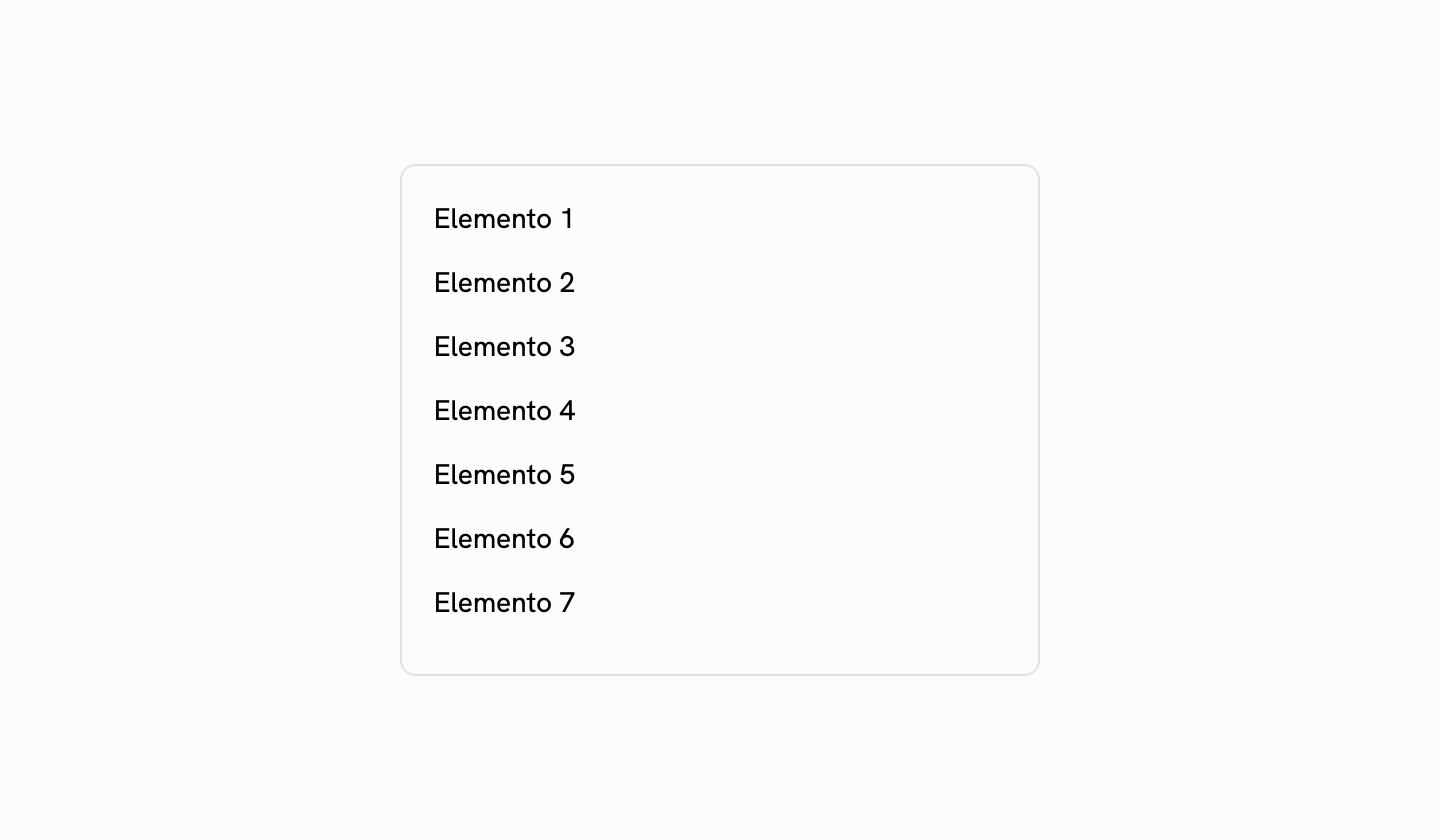
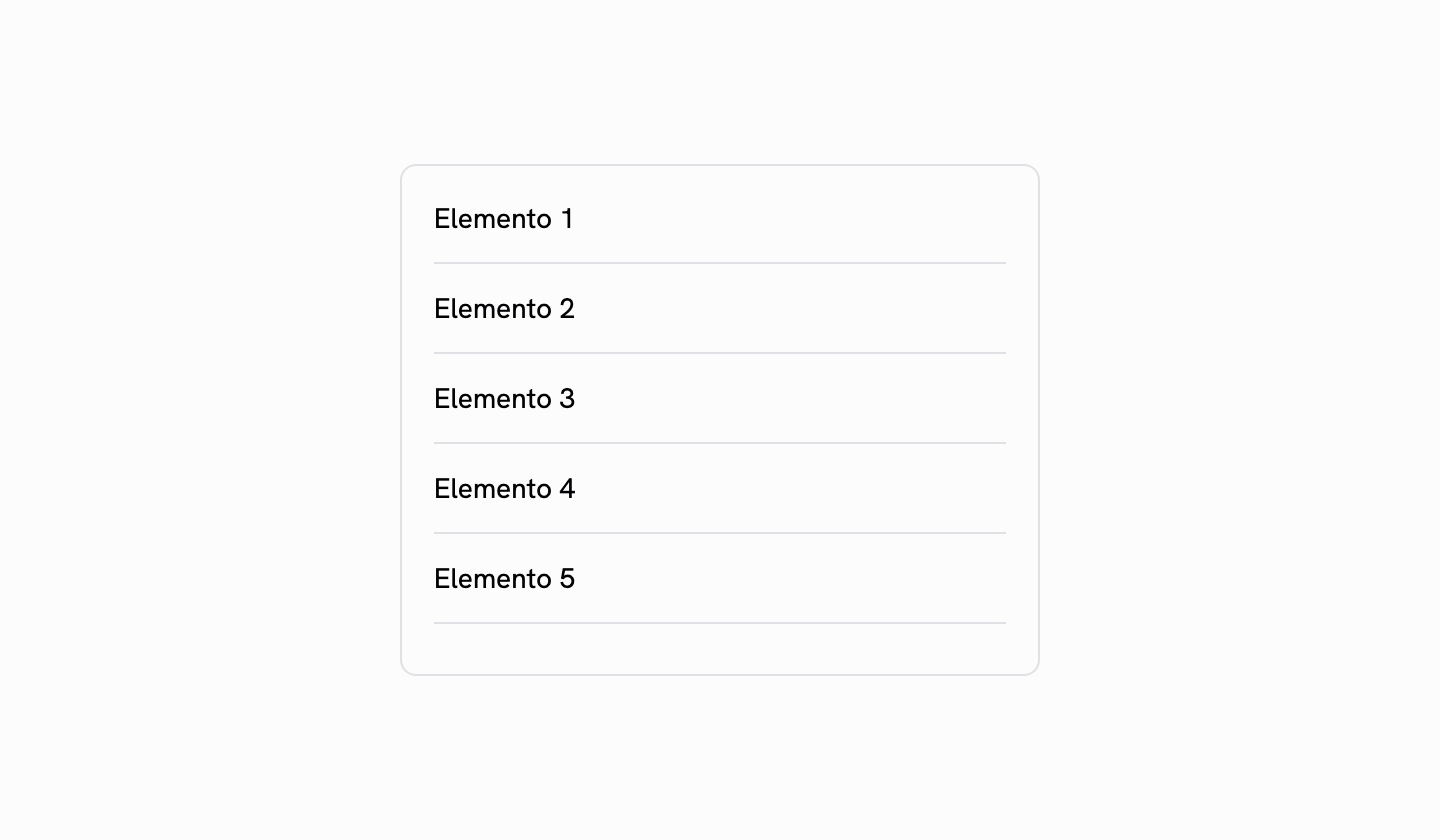
fix(registry): separator, scroll-area y field — data-[orientation=…]: en vez de data-horizontal:/data-vertical:
Base UI emite data-orientation, no data-horizontal/data-vertical, y el CSS
no define esas variantes: las clases no pintaban nada. Mismo arreglo que #41
(slider).

DOM medido en /preview (antes → después):
- separator: horizontal 384×0 → 384×1; vertical 0×0 → 1×32
- scroll-area (scrollbar, sonda con la clase del fuente): vertical 2×200 sin
  borde → 10×200 bl=1px; horizontal flex-row → flex-col, alto 10, bt=1px
- field-description con descendiente horizontal: wrap → balance

PNG recapturadas de los tres y fuentes.json al día.

diff --git a/packages/ui-registry/registry/default/ui/scroll-area.tsx b/packages/ui-registry/registry/default/ui/scroll-area.tsx
@@ -37,7 +37,7 @@ function ScrollBar({
       data-orientation={orientation}
       orientation={orientation}
       className={cn(
-        "flex touch-none p-px transition-colors select-none data-horizontal:h-2.5 data-horizontal:flex-col data-horizontal:border-t data-horizontal:border-t-transparent data-vertical:h-full data-vertical:w-2.5 data-vertical:border-l data-vertical:border-l-transparent",
+        "flex touch-none p-px transition-colors select-none data-[orientation=horizontal]:h-2.5 data-[orientation=horizontal]:flex-col data-[orientation=horizontal]:border-t data-[orientation=horizontal]:border-t-transparent data-[orientation=vertical]:h-full data-[orientation=vertical]:w-2.5 data-[orientation=vertical]:border-l data-[orientation=vertical]:border-l-transparent",
         className
       )}
       {...props}

diff --git a/packages/ui-registry/registry/default/ui/field.tsx b/packages/ui-registry/registry/default/ui/field.tsx
@@ -133,7 +133,7 @@ function FieldDescription({ className, ...props }: React.ComponentProps<"p">) {
     <p
       data-slot="field-description"
       className={cn(
-        "text-left text-sm leading-normal font-normal text-muted-foreground group-has-data-horizontal/field:text-balance [[data-variant=legend]+&]:-mt-1.5",
+        "text-left text-sm leading-normal font-normal text-muted-foreground group-has-data-[orientation=horizontal]/field:text-balance [[data-variant=legend]+&]:-mt-1.5",
         "last:mt-0 nth-last-2:-mt-1",
         "[&>a]:underline [&>a]:underline-offset-4 [&>a:hover]:text-primary",
         className

diff --git a/packages/ui-registry/registry/default/ui/separator.tsx b/packages/ui-registry/registry/default/ui/separator.tsx
@@ -12,7 +12,7 @@ function Separator({
       data-slot="separator"
       orientation={orientation}
       className={cn(
-        "shrink-0 bg-border data-horizontal:h-px data-horizontal:w-full data-vertical:w-px data-vertical:self-stretch",
+        "shrink-0 bg-border data-[orientation=horizontal]:h-px data-[orientation=horizontal]:w-full data-[orientation=vertical]:w-px data-[orientation=vertical]:self-stretch",
         className
       )}
       {...props}
